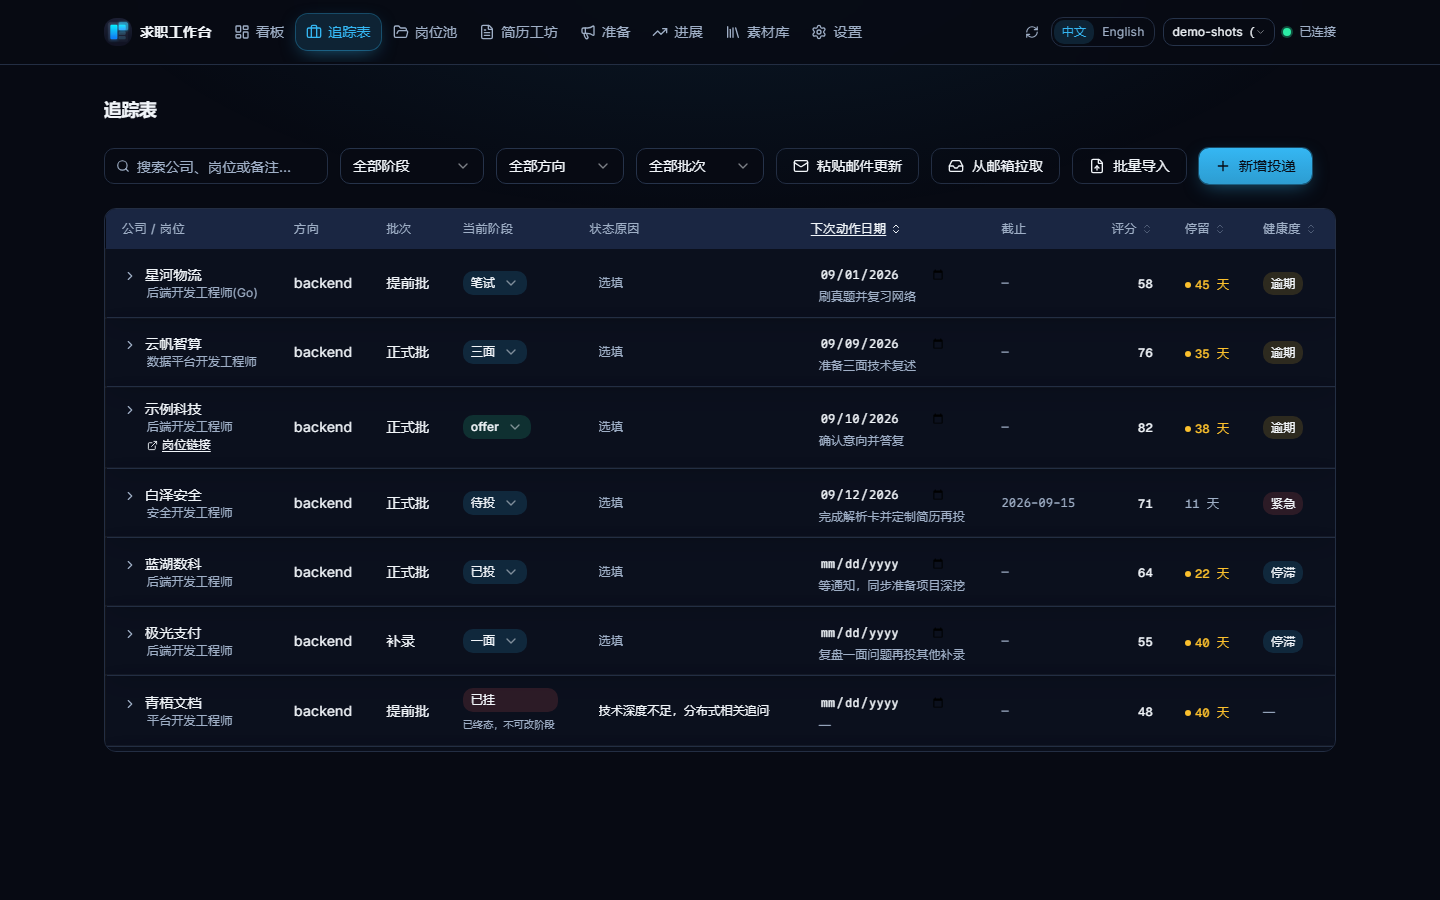
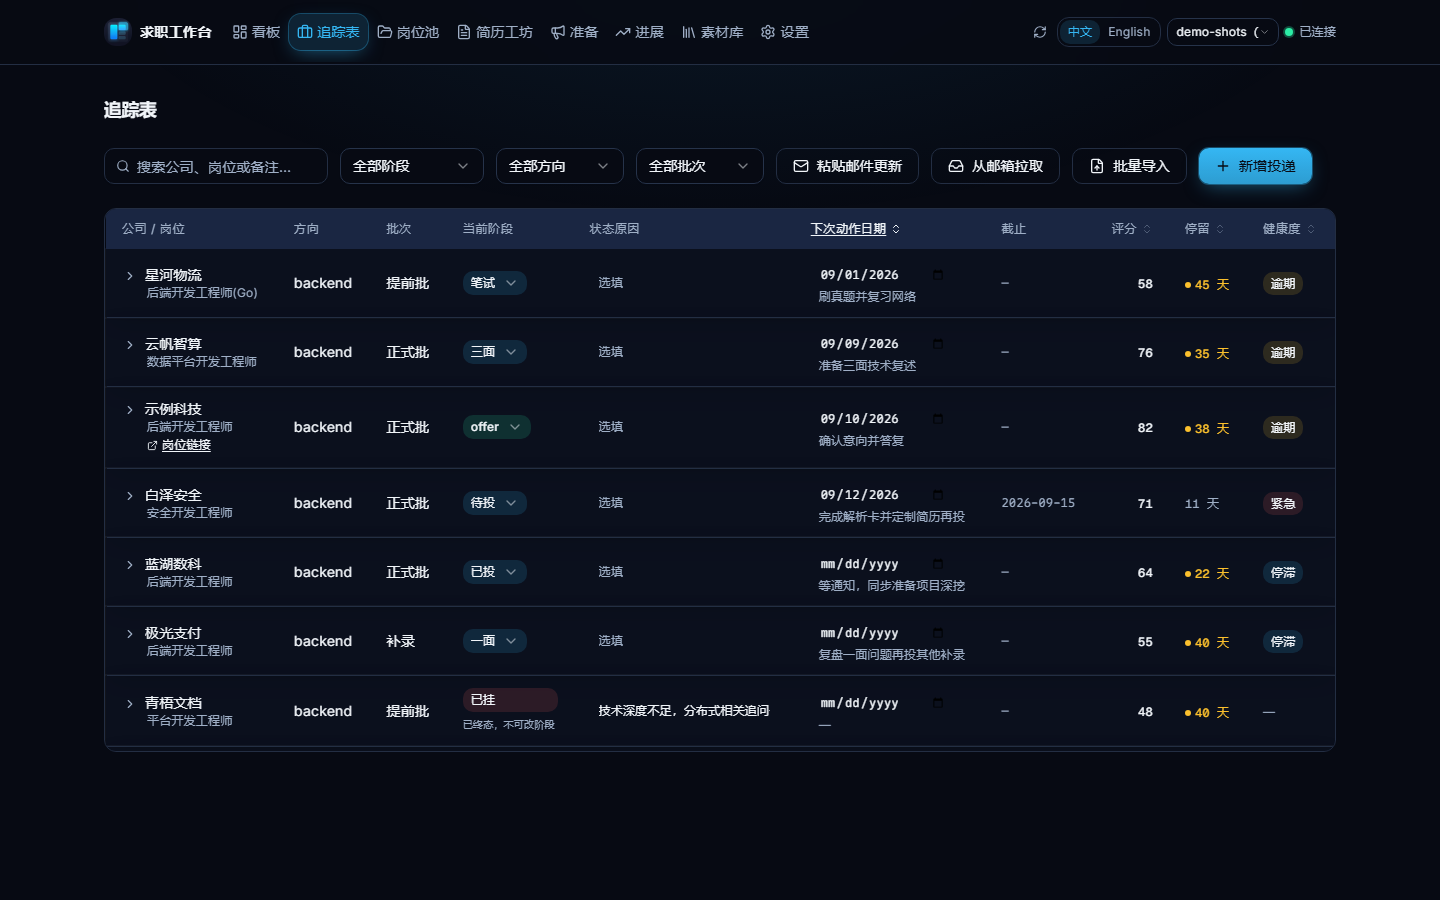
fix(nav): 英文界面 1440 宽下顶栏第 8 个页签被裁（溢出 48px）
内容区 max-w-7xl（1280px）里，英文标签比中文长 2–4 倍：8 个页签的 tab 条实测 scrollWidth 777 vs clientWidth 729（溢出 48px），「Settings」被裁成 Set，而界面上看不出那里能横向滚。这是 2026-09-18 新增「准备」页签引入的回归——既有冒烟只断言「不折行」，而这是横滚不是折行，所以整批检查都放它过去了。

压紧四处间距（页签 px-2.5→px-2、间距 gap-0.5→gap-px、图标 gap-1.5→gap-1、右侧工具区 gap-2→gap-1.5），合计省 63px，余量 15px。新增回归网 e2e/nav.spec.ts：1440 宽英文下断言 8 个页签全部完整可见（容器无横向滚动余量 + 逐个页签右边缘落在容器内）；有效性已验证——临时回退内边距时它精确报出「tab 条溢出 17px」。README 两套截图（16 张）同步重拍。

Changed region(s): [[0.1562, 0.0, 0.5938, 0.0622], [0.7188, 0.0311, 0.9062, 0.0622]]

diff --git a/web/frontend/e2e/nav.spec.ts b/web/frontend/e2e/nav.spec.ts
@@ -1,0 +1,55 @@
+import { expect, test } from "@playwright/test";
+
+import { ENV_SCRIPT, PAGES } from "./fixtures";
+
+/**
+ * 顶栏 tab 条不溢出（回归网）。
+ *
+ * 为什么需要它：**英文标签比中文长 2–4 倍**。2026-09-18 新增「准备」tab 后，
+ * 1440 宽（内容区 `max-w-7xl` = 1280px）下 tab 条溢出 48px——第 8 个 tab
+ * 「Settings」被裁成 `Set`，而界面上看不出那里还能横向滚。
+ *
+ * 既有冒烟只断言「**不折行**」（fixtures 的 `NAV_LINE_COUNT`），而这是**横滚**
+ * 不是折行，所以整批检查都放它过去了：英文界面下导航少一个入口，CI 全绿。
+ */
+test.describe("顶栏", () => {
+  test("1440 宽英文下，8 个 tab 全部完整可见", async ({ page }) => {
+    await page.setViewportSize({ width: 1440, height: 900 });
+    await page.addInitScript(ENV_SCRIPT);
+    await page.goto("/#dashboard");
+    await expect(page.locator("nav").getByRole("combobox").first()).toBeVisible();
+
+    const scroller = page.locator("nav div.overflow-x-auto");
+    await expect(scroller).toHaveCount(1);
+
+    const tabs = scroller.locator("button");
+    await expect(tabs, "顶栏应有 8 个页签（与 App.tsx 的 TABS 一致）").toHaveCount(
+      PAGES.length,
+    );
+
+    // ① 容器自身不该有横向滚动余量
+    const { scrollWidth, clientWidth } = await scroller.evaluate((el) => ({
+      scrollWidth: el.scrollWidth,
+      clientWidth: el.clientWidth,
+    }));
+    expect(
+      scrollWidth,
+      `tab 条溢出 ${scrollWidth - clientWidth}px：最后一个页签会被裁掉`,
+    ).toBeLessThanOrEqual(clientWidth);
+
+    // ② 更贴近「看得见」的判据：每个 tab 的右边缘都落在容器内
+    const container = await scroller.boundingBox();
+    expect(container).not.toBeNull();
+    for (const tab of await tabs.all()) {
+      const label = (await tab.innerText()).trim();
+      const box = await tab.boundingBox();
+      expect(box).not.toBeNull();
+      if (box && container) {
+        expect(
+          box.x + box.width,
+          `页签「${label}」的右边缘超出容器`,
+        ).toBeLessThanOrEqual(container.x + container.width + 1);
+      }
+    }
+  });
+});

diff --git a/web/frontend/src/App.tsx b/web/frontend/src/App.tsx
@@ -149,13 +149,18 @@ export default function App() {
               padding box：按钮的发光与键盘焦点环上下被裁（用户反馈 #5）。
               py-3/-my-3 给垂直绘制留余量；px-1/-mx-1 同理给**水平**余量——
               否则最左/最右 tab 的光晕在滚动容器边缘被裁掉半边（用户反馈 #4）。 */}
-          <div className="-mx-1 -my-3 flex min-w-0 items-center gap-0.5 overflow-x-auto px-1 py-3">
+          {/* 间距与内边距是**按实测压过的**，不要随手放大：英文标签比中文长 2–4 倍，
+              1440 宽（内容区 max-w-7xl = 1280px）下 8 个 tab 原本溢出 48px
+              （scrollWidth 777 vs clientWidth 729），第 8 个被裁成 `Set`。
+              gap-px / px-2 / 图标 gap-1 合计省下 63px。改这里前先看
+              `e2e/nav.spec.ts` 的溢出断言。 */}
+          <div className="-mx-1 -my-3 flex min-w-0 items-center gap-px overflow-x-auto px-1 py-3">
             {TABS.map((item) => (
               <button
                 key={item.key}
                 onClick={() => switchTab(item.key)}
                 aria-current={tab === item.key ? "page" : undefined}
-                className={`flex shrink-0 cursor-pointer items-center gap-1.5 whitespace-nowrap rounded-lg px-2.5 py-2 text-sm transition-all duration-200 ease-premium ${
+                className={`flex shrink-0 cursor-pointer items-center gap-1 whitespace-nowrap rounded-lg px-2 py-2 text-sm transition-all duration-200 ease-premium ${
                   tab === item.key
                     ? "bg-primary/15 text-primary shadow-glow-primary"
                     : "text-muted-foreground hover:bg-secondary/60 hover:text-foreground"
@@ -167,7 +172,7 @@ export default function App() {
             ))}
           </div>
 
-          <div className="ml-auto flex shrink-0 items-center gap-2 text-xs">
+          <div className="ml-auto flex shrink-0 items-center gap-1.5 text-xs">
             {/* 手动刷新（批 8）：外部改动的自动同步是「聚焦 + 指纹轮询」，
                 这个按钮是兜底——用户想立刻刷新时不必等下一轮轮询 */}
             <button

diff --git a/CHANGELOG.md b/CHANGELOG.md
@@ -24,6 +24,7 @@
 
 ### Added
 
+- **修顶栏溢出：英文界面 1440 宽下第 8 个页签被裁（2026-09-19）**：内容区是 `max-w-7xl`（1280px），而英文标签比中文长 2–4 倍——8 个页签的 tab 条原本溢出 48px，「Settings」被裁成 `Set`，界面上又看不出那里能横向滚（2026-09-18 新增「准备」页签引入的回归）。按实测压紧三处间距（页签内边距 `px-2.5`→`px-2`、页签间距 `gap-0.5`→`gap-px`、右侧工具区 `gap-2`→`gap-1.5`，合计省 63px），并新增回归网 `e2e/nav.spec.ts`：1440 宽英文下断言 8 个页签**全部完整可见**（容器无横向滚动余量 + 每个页签右边缘落在容器内）。既有冒烟只断言「不折行」——而这是**横滚**不是折行，所以此前整批检查都放它过去了。README 的两套截图同步重拍。
 - **README 截图重拍（8 页 × 中英两套）与自动截图脚本（2026-09-19）**：新增 `npm run capture`（`web/frontend/scripts/capture-screenshots.mjs`）——自动重建 `demo-shots` 工作区、起后端、按 1440×900 拍 8 页中英两套，并清掉编号重排后的孤儿图（此前 14 张全靠手拍：重拍一次要开 8 页 × 切一次语言 × 挪窗口对分辨率）。三个偏好**显式钉住**（工作区 / 语言 / 主题）——手工路径已经出过三类事故：拍到 `personal` 真实数据（localStorage 残留会盖掉后端默认值）、中文目录里躺着英文界面、浅色系统的机器拍出浅色主题（主题默认是「跟随系统」）。新增的「准备」板块补上截图（编号 05，`progress` / `library` / `settings` 整体后移一位），README 双语引用同步重排；「设置」页的真实用户名照旧遮成 `<用户名>`。顺带修 `.gitignore` 里两行过时的 `init_workspace.py` 直跑写法（统一入口改造后直跑只给迁移提示并退出 2）。
 - **准备页页内页签的 a11y 回归网（2026-09-19）**：题库面板的两个搜索框补上可访问名称——那是既有 a11y 扫描的盲区（`openPage` 只进页面不点页内页签，题库面板从未被 axe 看到过）；新增 `prepare-tabs.spec.ts`，对宣讲会 / 题库两个面板各扫一次 axe（serious/critical 零命中），与笔记页签的 `notes.spec.ts` 同一套姿势。
 - **导出成 Obsidian 笔记（2026-09-19）**：新增命令行 `jobws export --obsidian <目录>`——把工作区的八张 CSV（投递记录 / 时间线 / 面试 / 宣讲会 / 邮件 / 联系人 / Offer / 题库）各导成一个目录、**每行一篇 Markdown 笔记**，frontmatter 带上原表全部字段（供 Obsidian **Bases / Dataview** 按字段过滤排序），正文是人读的字段表；题库笔记额外带 `#flashcard` 标签与 `题目:: 答案` 单行卡，供 **obsidian-spaced-repetition** 插件排复习。导出根目录带时间戳、**同名已存在就报错而不是覆盖**、**工作区一个字节都不改**（是快照不是同步）；目录里附 `README.md` 说明与 `jobws.base` 视图。字段值里的引号 / 反斜杠 / 换行在 YAML 里统一转义，Windows 文件名非法字符替换成 `-`，标题重名加序号而不是互相覆盖。
